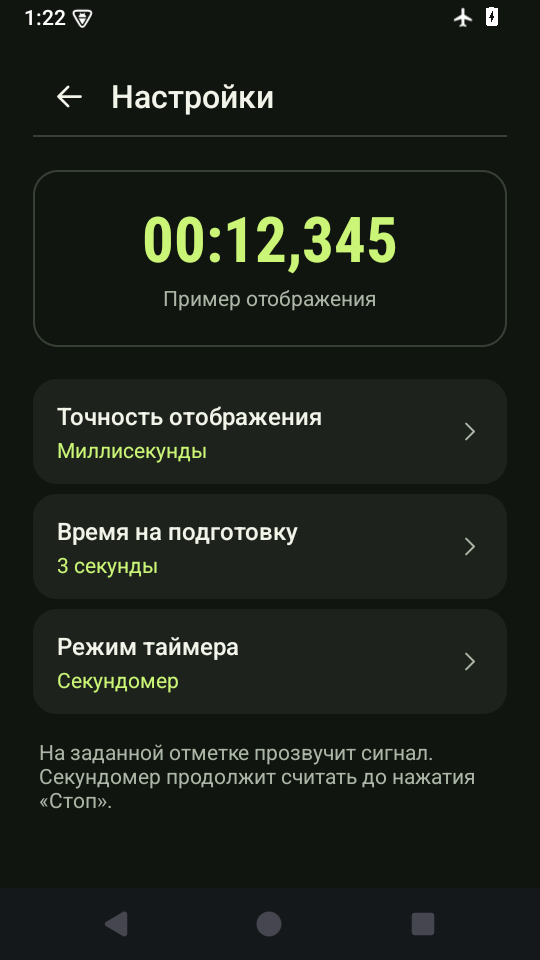
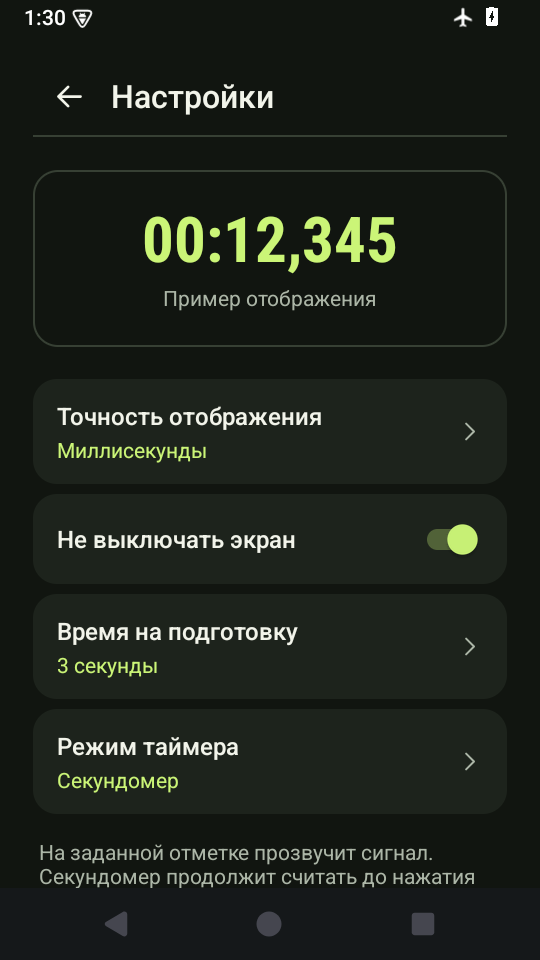
Keep the screen on while HoldBeat is open by default

diff --git a/app/src/main/java/com/tonechronometer/app/SettingsActivity.java b/app/src/main/java/com/tonechronometer/app/SettingsActivity.java
@@ -4,6 +4,7 @@ import android.app.Activity;
 import android.app.AlertDialog;
 import android.os.Bundle;
 import android.view.View;
+import android.widget.Switch;
 import android.widget.TextView;
 
 import java.util.Locale;
@@ -21,8 +22,16 @@ public final class SettingsActivity extends Activity {
     @Override protected void onCreate(Bundle state) {
         super.onCreate(state);
         setContentView(R.layout.activity_settings);
-        ScreenInsets.apply(this, findViewById(R.id.settings_screen));
+        View screen = findViewById(R.id.settings_screen);
+        ScreenInsets.apply(this, screen);
         settings = new WorkoutSettings(this);
+        Switch keepScreenOn = findViewById(R.id.keep_screen_on);
+        keepScreenOn.setChecked(settings.keepScreenOn());
+        screen.setKeepScreenOn(keepScreenOn.isChecked());
+        keepScreenOn.setOnCheckedChangeListener((button, checked) -> {
+            settings.setKeepScreenOn(checked);
+            screen.setKeepScreenOn(checked);
+        });
         findViewById(R.id.settings_back).setOnClickListener(v -> finish());
         findViewById(R.id.next_hold_hint).setVisibility(
                 getIntent().getBooleanExtra(EXTRA_ACTIVE, false) ? View.VISIBLE : View.GONE);

diff --git a/app/src/main/java/com/tonechronometer/app/WorkoutSettings.java b/app/src/main/java/com/tonechronometer/app/WorkoutSettings.java
@@ -22,6 +22,10 @@ final class WorkoutSettings {
         return prefs.getBoolean("stopwatch", false);
     }
 
+    boolean keepScreenOn() {
+        return prefs.getBoolean("keep_screen_on", true);
+    }
+
     void setPrecision(int digits) {
         prefs.edit().putInt("fraction_digits", digits).apply();
     }
@@ -32,5 +36,9 @@ final class WorkoutSettings {
 
     void setStopwatch(boolean enabled) {
         prefs.edit().putBoolean("stopwatch", enabled).apply();
+    }
+
+    void setKeepScreenOn(boolean enabled) {
+        prefs.edit().putBoolean("keep_screen_on", enabled).apply();
     }
 }

diff --git a/app/src/main/java/com/tonechronometer/app/MainActivity.java b/app/src/main/java/com/tonechronometer/app/MainActivity.java
@@ -87,6 +87,7 @@ public final class MainActivity extends Activity {
 
     @Override protected void onResume() {
         super.onResume();
+        findViewById(R.id.screen).setKeepScreenOn(settings.keepScreenOn());
         precision = settings.precision();
         preferredStopwatch = settings.stopwatch();
         refresh();

diff --git a/README.ru.md b/README.ru.md
@@ -6,7 +6,7 @@
 
 <p>
   <img src="docs/images/timer-ru.png" width="260" alt="Экран таймера HoldBeat">
-  <img src="docs/images/settings-ru.png" width="260" alt="Настройки точности, подготовки и режима">
+  <img src="docs/images/settings-ru.png" width="260" alt="Настройки HoldBeat с включённым переключателем «Не выключать экран»">
 </p>
 
 ## Во время тренировки
@@ -15,6 +15,7 @@
 - **Секундомер.** Например, поставьте цель в 30 секунд. Услышав сигнал, можете продолжать держать планку. Нажмите **Стоп**, чтобы увидеть фактическое время.
 - **Подготовка.** Дайте себе 3, 5 или 10 секунд, чтобы занять положение. Начало подхода отмечает отдельный короткий звук. По умолчанию подготовка выключена.
 - **Точность.** В настройках доступны целые секунды, десятые, сотые и миллисекунды. Там же видно, как будет выглядеть время. Цифры обновляются в такт экрану.
+- **Не выключать экран.** По умолчанию экран остаётся включённым, пока открыт HoldBeat. Если отключить эту настройку, экран будет гаснуть через обычное для телефона время.
 
 Перед подходом нажмите **Послушать**, чтобы проверить громкость. Приложение запоминает длительность и настройки. Язык выбирается по языку телефона. Доступны русский и английский.
 

diff --git a/README.md b/README.md
@@ -6,7 +6,7 @@ HoldBeat is an Android timer for planks, wall sits, and other static holds. Set 
 
 <p>
   <img src="docs/images/timer.png" width="260" alt="HoldBeat workout timer">
-  <img src="docs/images/settings.png" width="260" alt="Timer precision, preparation time, and mode settings">
+  <img src="docs/images/settings.png" width="260" alt="HoldBeat settings with Keep screen on enabled">
 </p>
 
 ## During a hold
@@ -15,6 +15,7 @@ HoldBeat is an Android timer for planks, wall sits, and other static holds. Set 
 - **Stopwatch** counts up, sounds once at the target, and keeps going. Tap **Stop hold** to see how long you held the position.
 - **Preparation time** gives you 3, 5, or 10 seconds to get into position. A short start tone marks the beginning of the hold. Preparation is off by default.
 - **Display precision** lets you choose whole seconds, tenths, hundredths, or milliseconds. The settings screen previews the format. The dial refreshes at the screen’s cadence.
+- **Keep screen on** is enabled by default while HoldBeat is visible. Turn it off in Settings to use your phone’s usual screen timeout.
 
 Use **Test sound** to check the volume before starting. The app remembers your duration and settings. The interface follows the device language and supports English and Russian.
 
